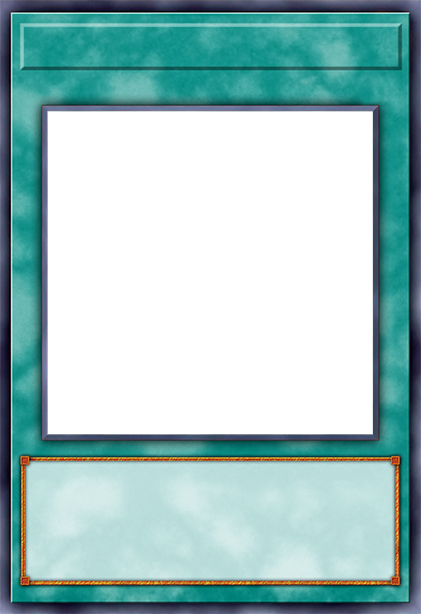
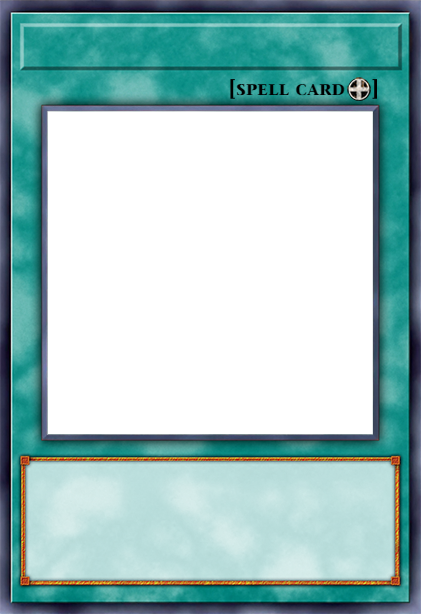
adding magic card

Changed region(s): [[0.5249, 0.1238, 0.8955, 0.1857]]

diff --git a/script.js b/script.js
@@ -1,16 +1,19 @@
 const back = document.querySelector("#back");
 const card = document.querySelector(".card");
+const magicback = document.querySelector("#magicback");
+const magiccard = document.querySelector(".card1");
 const shadow = document.getElementById("shadowbox");
 const pic = document.querySelector("#photos");
-let darkBoxVisible = false, starting = true;
+let darkBoxVisible = false, starting = true, magicstarting=true;
 
 
 card.addEventListener("click", cardIn);
+magiccard.addEventListener("click",magiccardIn);
 
 shadow.addEventListener("click", cardOut);
 
 function cardOut(){
-    if(starting==false){
+    if(starting==false && magicstarting==true){
         shadow.style.opacity = "0";
         shadow.style.visibility = "hidden";
         card.vanillaTilt.destroy();
@@ -18,6 +21,30 @@ function cardOut(){
         card.style.left = "-30vw";
         card.style.transform = "rotateY(180deg) rotateZ(-35deg)";
         starting = true;
+    }
+    else if(starting==true && magicstarting==false){
+        shadow.style.opacity = "0";
+        shadow.style.visibility = "hidden";
+        magiccard.vanillaTilt.destroy();
+        magiccard.style.top = "-30vh";
+        magiccard.style.left = "-30vw";
+        magiccard.style.transform = "rotateY(180deg) rotateZ(-35deg)";
+        magicstarting = true;
+    }
+    else{
+        console.log("yes");
+        shadow.style.opacity = "0";
+        shadow.style.visibility = "hidden";
+        card.vanillaTilt.destroy();
+        card.style.top = "10vh";
+        card.style.left = "-30vw";
+        card.style.transform = "rotateY(180deg) rotateZ(-35deg)";
+        starting = true;
+        magiccard.vanillaTilt.destroy();
+        magiccard.style.top = "-30vh";
+        magiccard.style.left = "-30vw";
+        magiccard.style.transform = "rotateY(180deg) rotateZ(-35deg)";
+        magicstarting = true;
     }
 }
 
@@ -30,6 +57,27 @@ function cardIn(){
         card.style.transform = "rotateY(0deg)";
         starting = false;
         VanillaTilt.init(document.querySelector("#card"), {
+            max: 10,
+            speed: 1000,
+            glare: true,
+            startX: 0,
+            startY: 0,
+            "max-glare": 0.5,
+            scale: 1.1,
+            perspective: 1500
+        });
+    }
+}
+
+function magiccardIn(){
+    if(magicstarting){
+        shadow.style.opacity = "1";
+        shadow.style.visibility = "visible";
+        magiccard.style.top = "-50vh";
+        magiccard.style.left = "30vw";
+        magiccard.style.transform = "rotateY(0deg)";
+        magicstarting = false;
+        VanillaTilt.init(document.querySelector("#card1"), {
             max: 10,
             speed: 1000,
             glare: true,

diff --git a/styles.css b/styles.css
@@ -96,7 +96,7 @@ body{
     transform-style: preserve-3d;
     transform: rotateY(180deg) rotateZ(-35deg);
     margin: 0 !important;
-    z-index: 1;
+    z-index: 3;
 }
 .mypic{
     position: inherit;
@@ -116,7 +116,6 @@ body{
     height: 580px;
     border-radius: 10px;
     z-index: 0;
-    visibility: hidden;
     overflow: hidden;
     visibility: visible;
     -webkit-backface-visibility: hidden;
@@ -251,40 +250,47 @@ body{
 
 /*Magic card*/
 .card1{
-    position:absolute;
-    top: 50vh;
-    left: 30vw;
+    position:relative;
+    top: -30vh;
+    left: -30vw;
     width: 400px;
     height: 580px;
     border-radius: 10px;
     transition: 0.5s;
     transform-style: preserve-3d;
-    transform: rotateY(0deg) rotateZ(-35deg);
+    transform: rotateY(180deg) rotateZ(-35deg);
     margin: 0 !important;
-    z-index: 50;
-}
-.magicpic{
-    position: inherit;
-    top: 105px;
-    left: 47px;
-    z-index: -1;
-}
-.magicpic img{
-    width: 305px;
+    z-index: 2;
 }
 .magicfront{
-    background-image: url(Img/magic.png);
     position: absolute;
+    top: 0;
+    left: 0;
+    z-index: 1;
+    overflow: hidden;
+    visibility: visible;
+    -webkit-backface-visibility: hidden;
+}
+.bgmagic{
+    position: relative;
     top: 0vh;
     left: 0vw;
     width: 400px;
     height: 580px;
     border-radius: 10px;
-    z-index: 0;
+    z-index: 1;
     visibility: visible;
     overflow: hidden;
-    visibility: visible;
-    -webkit-backface-visibility: visible;
+    -webkit-backface-visibility: hidden;
+}
+.magicpic{
+    position: relative;
+    top: -512px;
+    left: 45px;
+    z-index: 1;
+}
+.magicpic img{
+    width: 312px;
 }
 #magicback{
     position: absolute;
@@ -293,30 +299,26 @@ body{
     width: 400px;
     height: 580px;
     border-radius: 8px;
-    z-index: -2;
+    z-index: 2;
     -webkit-backface-visibility: hidden;
     transform: rotateY(180deg);
 }
 #card1Title{
     font-family: 'Didact Gothic', sans-serif;
     font-size: 25px;
+    color: #FFF;
     position: relative;
+    z-index: 1;
     left: 30px;
-    top: 30px;
-}
-#card1Type {
-    position: relative;
-    width: 25px;
-    left: 32px;
-    top: 5px;
+    top: -552px;
 }
 #magicDescription {
-    position: relative;
+    position: absolute;
+    z-index: 1;
     left: 35px;
-    top: 382px;
-    font-size: 12px;
+    top: 440px;
+    font-size: 14px;
     max-width: 335px;
-    font-style: italic;
 }
 
 .portfolio{

diff --git a/index.html b/index.html
@@ -304,8 +304,16 @@
             <img id="back" src="Img/SlifertheSkyDragon-GBI-AE-Back.webp"/>
         </div>
         <div id="card1" class="card1">
-            <div class="magicfont"></div>
-            <div class="magicback"></div>
+            <div class="magicfont">
+                <img class="bgmagic" src="Img/magic.png">
+                <h1 id="card1Title">Coffee</h1>
+                <div class="magicpic"><img src="Img/coffee.png"/></div>
+                <p id="magicDescription">
+                    Dont mind this.
+                    Use this card to increase alertness and energy also gives ability to concentrate.
+                </p>
+            </div>
+            <img id="magicback" src="Img/SlifertheSkyDragon-GBI-AE-Back.webp"/>
         </div>
 
         <div class="portfolio">
@@ -329,7 +337,7 @@
                         See the Pen <a href="https://codepen.io/crisandrobasoy/pen/PRGQqx">
                         Dark Room</a> by Crisandro Basoy (<a href="https://codepen.io/crisandrobasoy">@crisandrobasoy</a>)
                         on <a href="https://codepen.io">CodePen</a>.
-                    </iframe>
+                      </iframe>
                 </div>            
             </div>
             <div id="photos">
